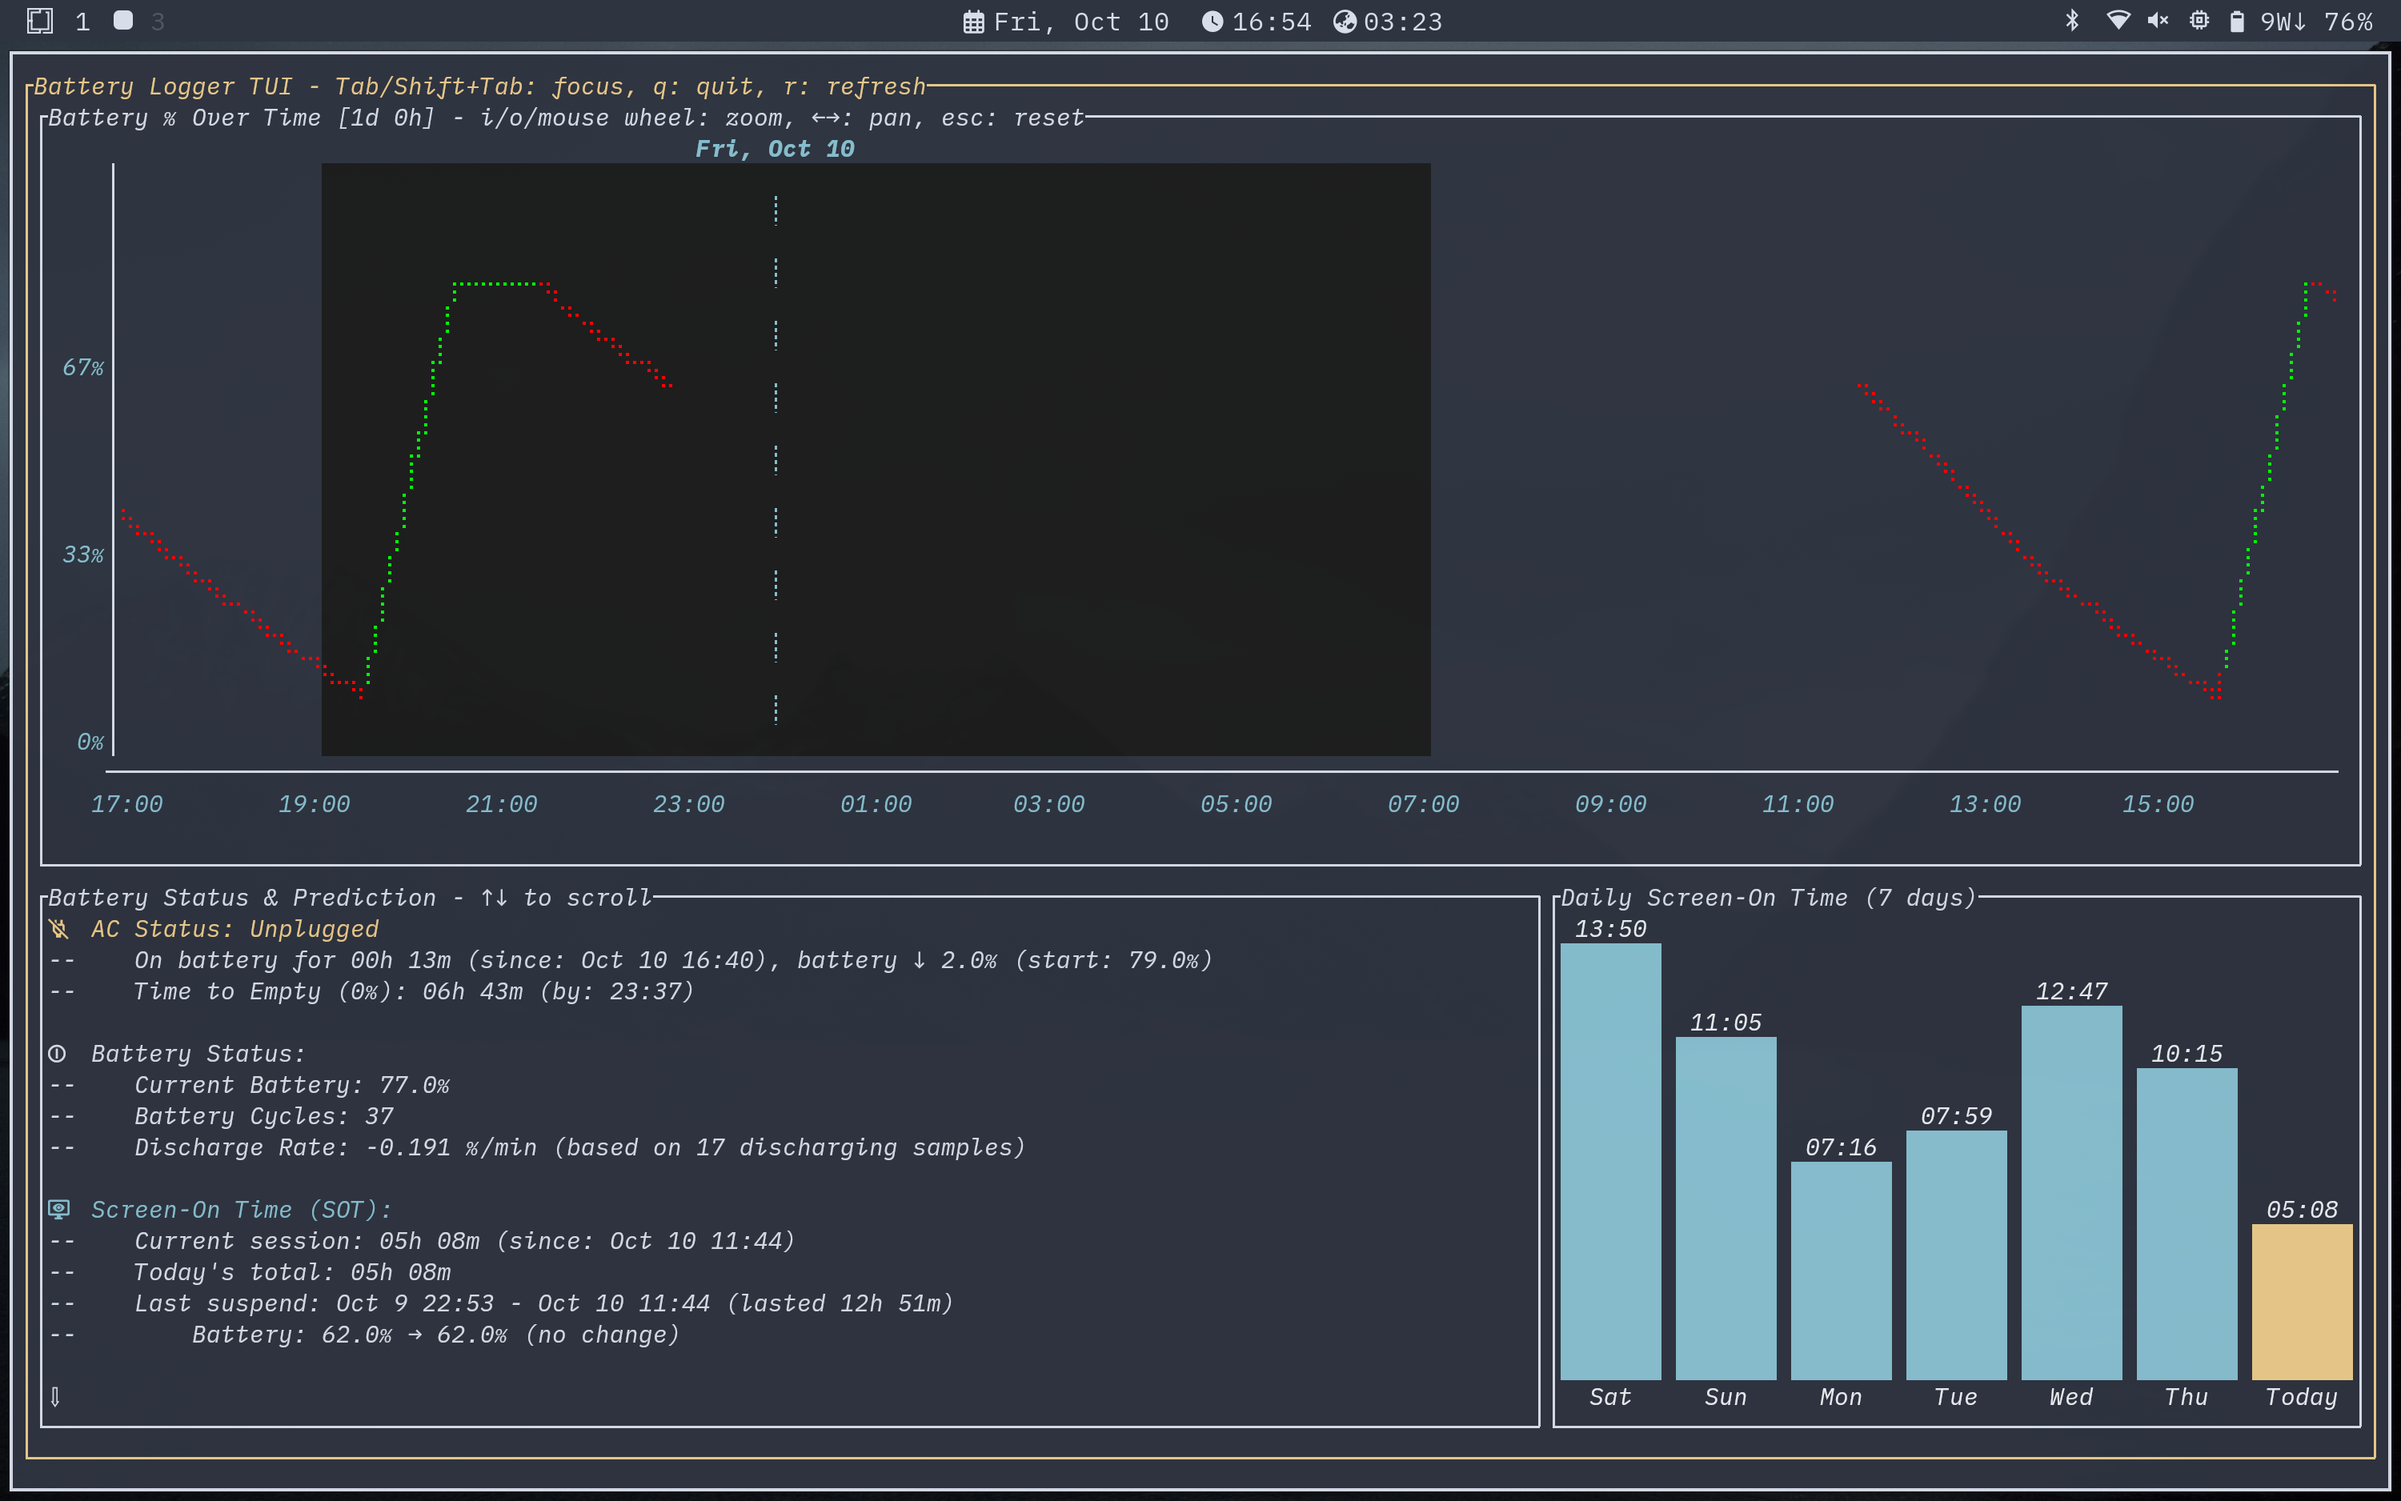
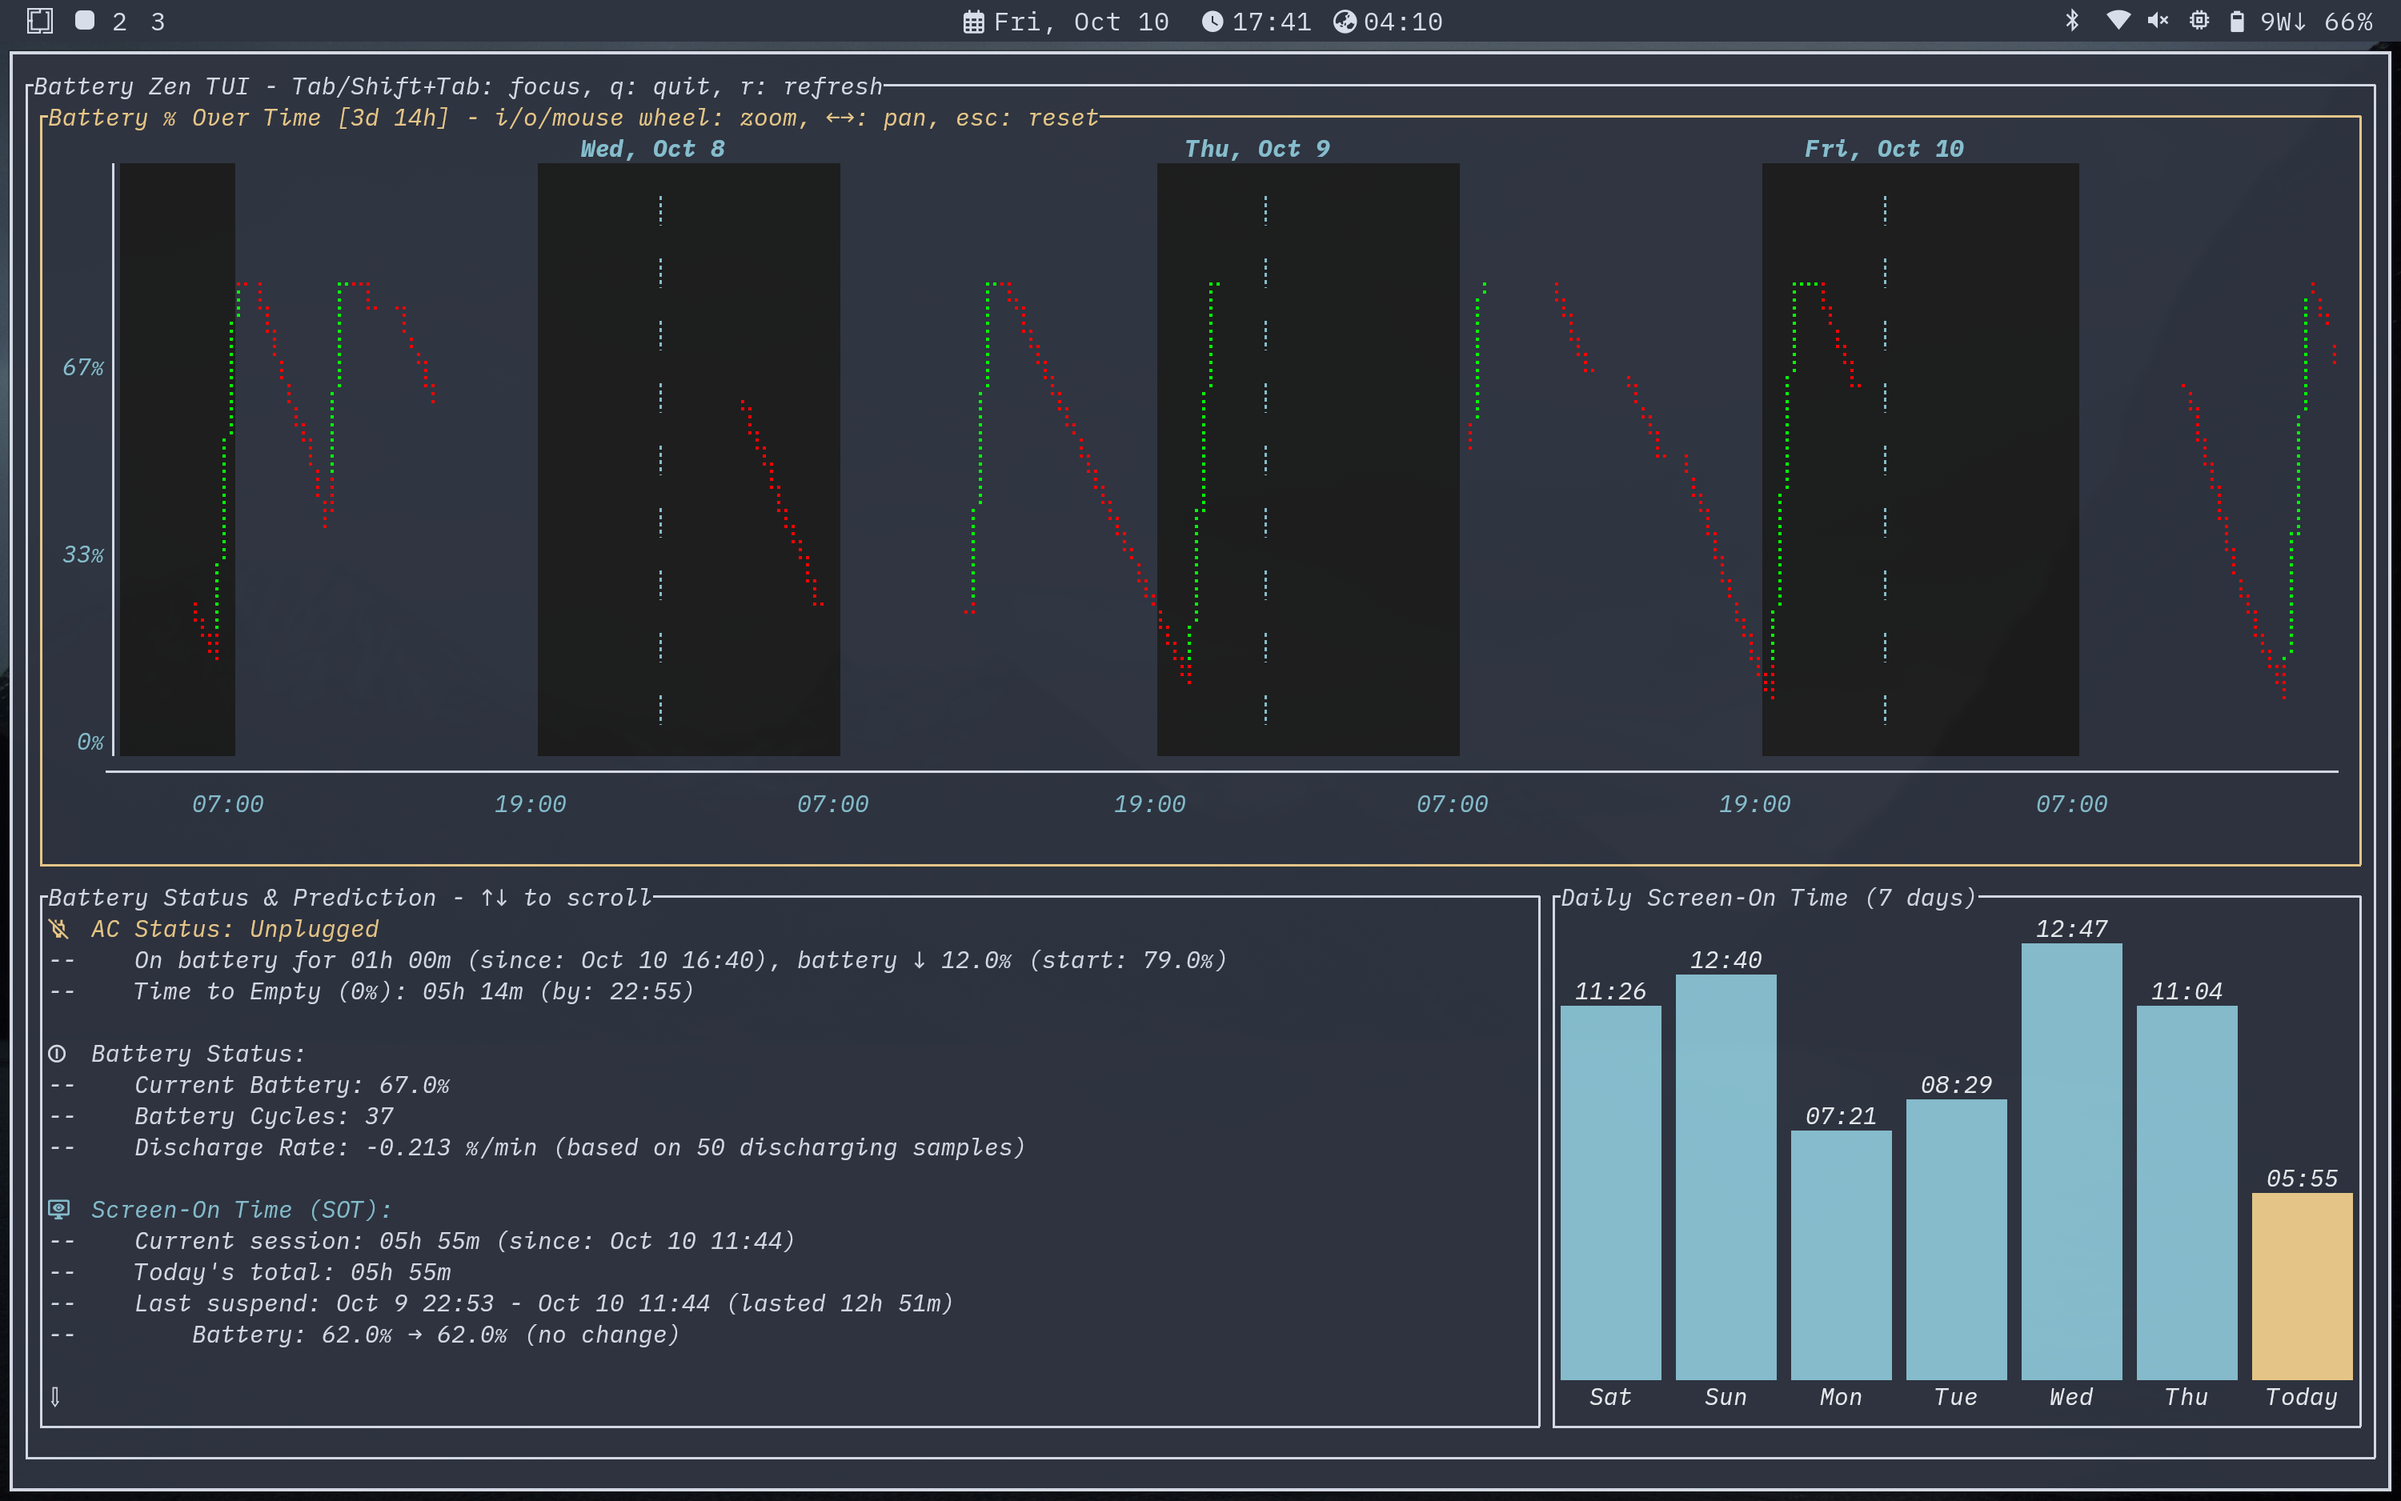
Minor doc update

diff --git a/docs/TUI.md b/docs/TUI.md
@@ -15,13 +15,13 @@ The Battery Zen TUI provides real-time visualization of your battery data with i
 - `-alpha float`: Exponential decay factor for weighted regression (default: 0.05)
   - Higher values give more weight to recent data points
   - Lower values consider historical data more equally
-- **Refresh rate**: Fixed at 10 seconds.
+- **Refresh rate**: Fixed at 20 seconds.
 
 ## Features
 
 
 ### 📊 Real-time Visualization
-- **Two-pane layout**: interactive chart (70%) and status panel (30%)
+- **Three-pane layout**: interactive chart, status panel, and SOT bar chart
 - **Day/night background visualization**: configurable colors and hours
 - **Interactive time-based chart** with zoom (mouse wheel or i/o keys), pan (←→), and reset (Esc)
 - **Color-coded data series**:
@@ -29,6 +29,7 @@ The Battery Zen TUI provides real-time visualization of your battery data with i
   - 🔴 **Red line**: When running on battery
 - **Time-based X-axis** with intelligent labeling and date annotations
 - **Real-time status panel** with battery cycle count (if available)
+- **Weekly SOT bar chart** showing daily screen-on time trends
 
 ### 🧮 Smart Predictions
 - **Discharge rate calculation** using weighted linear regression
@@ -45,6 +46,9 @@ The Battery Zen TUI provides real-time visualization of your battery data with i
 - **Time span** of displayed data with start/end times
 - **Data file location** and configuration file paths
 - **Real-time discharge rate** in %/min
+- **Screen-on time (SOT) tracking** with current session and daily totals
+- **Suspend event details** including duration and battery drain during sleep
+- **Weekly SOT bar chart** showing daily screen-on time trends for the past 7 days
 
 
 ### ⌨ Controls

diff --git a/README.md b/README.md
@@ -5,11 +5,11 @@
 
 # Battery Zen
 
-[![Go Version](https://img.shields.io/badge/Go-1.22+-00ADD8?style=flat&logo=go)](https://golang.org/)
-[![License](https://img.shields.io/github/license/Prajwal-Prathiksh/battery-zen?style=flat)](LICENSE)
+[![Go Version](https://img.shields.io/badge/Go-1.22+-00ADD8?style=flat&logo=go)](https://go.dev/)
+[![License](https://img.shields.io/github/license/Prajwal-Prathiksh/battery-zen?style=flat)](https://github.com/Prajwal-Prathiksh/battery-zen/blob/main/LICENSE)
 [![Release](https://img.shields.io/github/v/release/Prajwal-Prathiksh/battery-zen?style=flat)](https://github.com/Prajwal-Prathiksh/battery-zen/releases)
 [![Go Report Card](https://goreportcard.com/badge/github.com/Prajwal-Prathiksh/battery-zen)](https://goreportcard.com/report/github.com/Prajwal-Prathiksh/battery-zen)
-[![Platform](https://img.shields.io/badge/platform-Linux-blue?style=flat&logo=linux)](https://kernel.org/)
+[![Platform](https://img.shields.io/badge/platform-Linux-blue?style=flat&logo=linux)](https://www.linux.org/)
 [![Systemd](https://img.shields.io/badge/systemd-supported-green?style=flat)](https://systemd.io/)
 
 *A zen-like Go toolkit for mindful battery monitoring, logging, and real-time visualization on Linux.*
